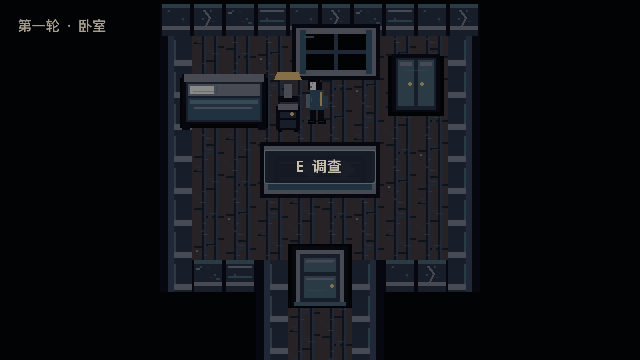
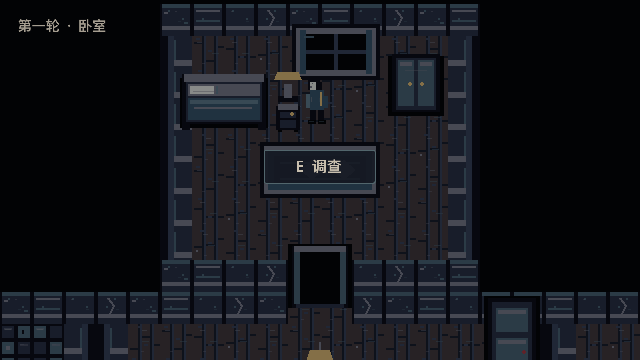
feat: build connected five-room house

diff --git a/README.md b/README.md
@@ -90,13 +90,28 @@ flowchart LR
 
 > 主视觉是概念目标，不是游戏实机截图。游戏内资产按同一色板制作，并以 Godot 运行证据逐项验收。
 
-### First playable frame
+### First-loop runtime tour
 
 <p align="center">
   <img src="docs/evidence/runtime/bedroom_first_playable.png" width="640" alt="Godot 4.6.3 实机运行的第一轮卧室：可操控秦峥面对调查提示">
 </p>
 
-> Godot 4.6.3 在 Mac 开发环境实际运行，使用 `TileMapLayer`、角色碰撞和近距离调查系统；这是第一轮卧室开发证据，不冒充五房间或最终发布画面。
+> Godot 4.6.3 在 Mac 开发环境实际运行，使用连通的 `TileMapLayer`、角色碰撞、房间相机和近距离调查系统；所有图片保持 640×360 原生逻辑画布，不冒充最终发布画面。
+
+<details>
+<summary><strong>查看其余四个房间的真实运行画面</strong></summary>
+<br>
+
+| 走廊 | 厨房 |
+|---|---|
+| <img src="docs/evidence/runtime/first_loop_hallway.png" width="320" alt="第一轮走廊 Godot 实机截图"> | <img src="docs/evidence/runtime/first_loop_kitchen.png" width="320" alt="第一轮厨房 Godot 实机截图"> |
+
+| 儿童房 | 客厅 |
+|---|---|
+| <img src="docs/evidence/runtime/first_loop_child_room.png" width="320" alt="第一轮儿童房 Godot 实机截图"> | <img src="docs/evidence/runtime/first_loop_living_room.png" width="320" alt="第一轮客厅 Godot 实机截图"> |
+
+截图复现方式、引擎与渲染信息见 [`docs/evidence/`](docs/evidence/README.md)。
+</details>
 
 <details>
 <summary><strong>查看垂直切片图像资产 V2（REVIEW）</strong></summary>
@@ -113,7 +128,7 @@ flowchart LR
 | <img src="assets/game/closeups/child_drawing_loop1.png" width="320" alt="第一轮儿童画"> | <img src="assets/game/closeups/child_drawing_loop2.png" width="320" alt="第二轮儿童画"> |
 | <img src="assets/game/closeups/wedding_photo_loop1.png" width="320" alt="第一轮婚纱照"> | <img src="assets/game/closeups/wedding_photo_loop2.png" width="320" alt="第二轮婚纱照"> |
 
-环境瓦片、83 个稳定图集区域、角色帧、UI、FX、640×360构图标杆与全部可编辑源文件见 [`assets/game/`](assets/game/README.md)。运行时资产当前仍为 `REVIEW`；首张卧室证据不能替代其余房间、第二轮和惩罚态评审。
+环境瓦片、83 个稳定图集区域、角色帧、UI、FX、640×360构图标杆与全部可编辑源文件见 [`assets/game/`](assets/game/README.md)。第一轮五房间已提供实机证据；运行时资产仍为 `REVIEW`，第二轮、惩罚态和角色动画尚未完成评审。
 </details>
 
 <details>

diff --git a/docs/evidence/README.md b/docs/evidence/README.md
@@ -2,19 +2,29 @@
 
 本目录只保存由锁定版本 Godot 实际运行产生的截图、录屏与测试证据。确定性合成预览和概念图不得放入此处冒充实机。
 
-## 第一轮卧室首张可玩截图
+## 第一轮五房间实机截图
 
-文件：`runtime/bedroom_first_playable.png`
+文件：
+
+- `runtime/bedroom_first_playable.png`
+- `runtime/first_loop_hallway.png`
+- `runtime/first_loop_kitchen.png`
+- `runtime/first_loop_child_room.png`
+- `runtime/first_loop_living_room.png`
 
 - 引擎：Godot `4.6.3.stable.official` Standard；
 - 渲染：macOS Compatibility，Apple M4，OpenGL API 4.1 Metal；
 - 输出：640×360，若开发窗口为 2×，只在 Godot 内使用最近邻还原逻辑画布尺寸；
-- 运行内容：`TileMapLayer` 卧室、V2 环境和道具图集、32×48 四方向角色、20×12 脚部碰撞、96 px/s 移动、48 px 调查选择和 HUD 提示；
-- 状态：第一轮卧室开发证据，资产仍为 `REVIEW`，不代表五房间或三状态评审完成。
+- 运行内容：按锁定坐标连通的卧室、走廊、厨房、儿童房与客厅，V2 环境和道具图集、32×48 四方向角色、20×12 脚部碰撞、96 px/s 移动、房间相机和 HUD 房间标签；
+- 状态：第一轮五房间开发证据，资产仍为 `REVIEW`；这些截图不代表第二轮、惩罚态、角色动画或最终发布评审完成。
 
 复现命令：
 
 ```sh
 GODOT="$HOME/Applications/Godot-4.6.3-stable.app/Contents/MacOS/Godot"
-"$GODOT" --path . -- --capture-screenshot=res://docs/evidence/runtime/bedroom_first_playable.png
+"$GODOT" --path . --resolution 1280x720 -- \
+  --capture-room=bedroom \
+  --capture-screenshot=res://docs/evidence/runtime/bedroom_first_playable.png
 ```
+
+将 `--capture-room` 换成 `hallway`、`kitchen`、`child_room` 或 `living_room`，并同步修改输出文件名，即可复现其余截图。截图必须使用实际图形后端；`--headless` 的 dummy 渲染器没有可读取的帧缓冲。

diff --git a/docs/ASSET_CREDITS.md b/docs/ASSET_CREDITS.md
@@ -14,7 +14,7 @@
 | `assets/diagrams/house-blockout.svg` | 五房间灰盒图 | 项目原创 | MIT | 代码原生 SVG；坐标依据 `LEVEL_BLOCKOUT.md` | 2026-07-13 |
 | `assets/game/source/*.svg`、`assets/game/atlases/*.png`、`assets/game/characters/*.png`、`assets/game/ui/ui_atlas.png`、`assets/game/ui/wordmark.png`、`assets/game/fx/*.png` | 瓦片、道具、角色、UI、FX | 项目确定性生成脚本 | MIT | 由 `tools/build_visual_assets.mjs` 生成；使用美术圣经登记的核心语义色与材料过渡色；V2 为 32px 视觉基线 | 2026-07-13 |
 | `assets/game/previews/bedroom_benchmark.png` | 640×360 构图标杆 | 项目确定性合成脚本 | MIT | 由实际运行时图集通过 `tools/build_art_preview.mjs` 合成；不是 Godot 实机截图 | 2026-07-13 |
-| `docs/evidence/runtime/bedroom_first_playable.png` | 640×360 Godot 实机证据 | 项目原创场景与 V2 运行时图集；Godot 4.6.3 macOS Compatibility 渲染 | MIT | 可操控角色、TileMapLayer、碰撞和调查提示的第一轮卧室运行时截图；不是概念图 | 2026-07-13 |
+| `docs/evidence/runtime/bedroom_first_playable.png`、`docs/evidence/runtime/first_loop_*.png` | 640×360 Godot 实机证据 | 项目原创场景与 V2 运行时图集；Godot 4.6.3 macOS Compatibility 渲染 | MIT | 第一轮五房间、可操控角色、TileMapLayer、碰撞、房间相机和 HUD 的运行时截图；不是概念图 | 2026-07-13 |
 | `assets/game/ui/title_background.png` | 游戏标题背景 | 由项目主视觉受控裁切 | 同主视觉 | 640×360；概念视觉用于标题，不宣称实机场景 | 2026-07-13 |
 | `assets/game/source/generated/*_source.png` | 叙事特写高分辨率母版 | David Luo 项目指导；OpenAI 内置图像生成工具生成 | 由项目所有者按 MIT 分发；同时受生成服务适用条款约束 | 提示与 SHA-256 见同目录 `GENERATION_RECORD.md`；不得直接导入游戏 | 2026-07-13 |
 | `assets/game/closeups/*.png` | 叙事特写运行时图像 | 由上述母版经确定性处理生成 | 同母版 | 320×180、最近邻、有限色、无抖动；处理脚本可复现 | 2026-07-13 |

diff --git a/docs/ROADMAP.md b/docs/ROADMAP.md
@@ -28,7 +28,7 @@
 
 ## M1：灰盒双轮流程
 
-状态：**进行中（F-01 至 F-04 完成；G-01/G-02 已打通首个可玩卧室切面）**
+状态：**进行中（F-01 至 F-04、G-01/G-02 完成；正在进入 G-03/G-04）**
 
 预计：2–4 个集中开发日
 

diff --git a/docs/DEVELOPMENT.md b/docs/DEVELOPMENT.md
@@ -33,6 +33,7 @@ GODOT="$HOME/Applications/Godot-4.6.3-stable.app/Contents/MacOS/Godot"
 "$GODOT" --headless --path . --script tests/smoke/game_state_smoke.gd
 "$GODOT" --headless --path . --script tests/smoke/dialogue_smoke.gd
 "$GODOT" --headless --path . --script tests/smoke/playable_bedroom_smoke.gd
+"$GODOT" --headless --path . --script tests/smoke/house_layout_smoke.gd
 ```
 
 测试分别覆盖项目契约、设置损坏恢复与重载、六种碎片顺序和状态不变量、中文两页文本的快进/输入保护，以及卧室移动—调查—文本—恢复控制闭环。